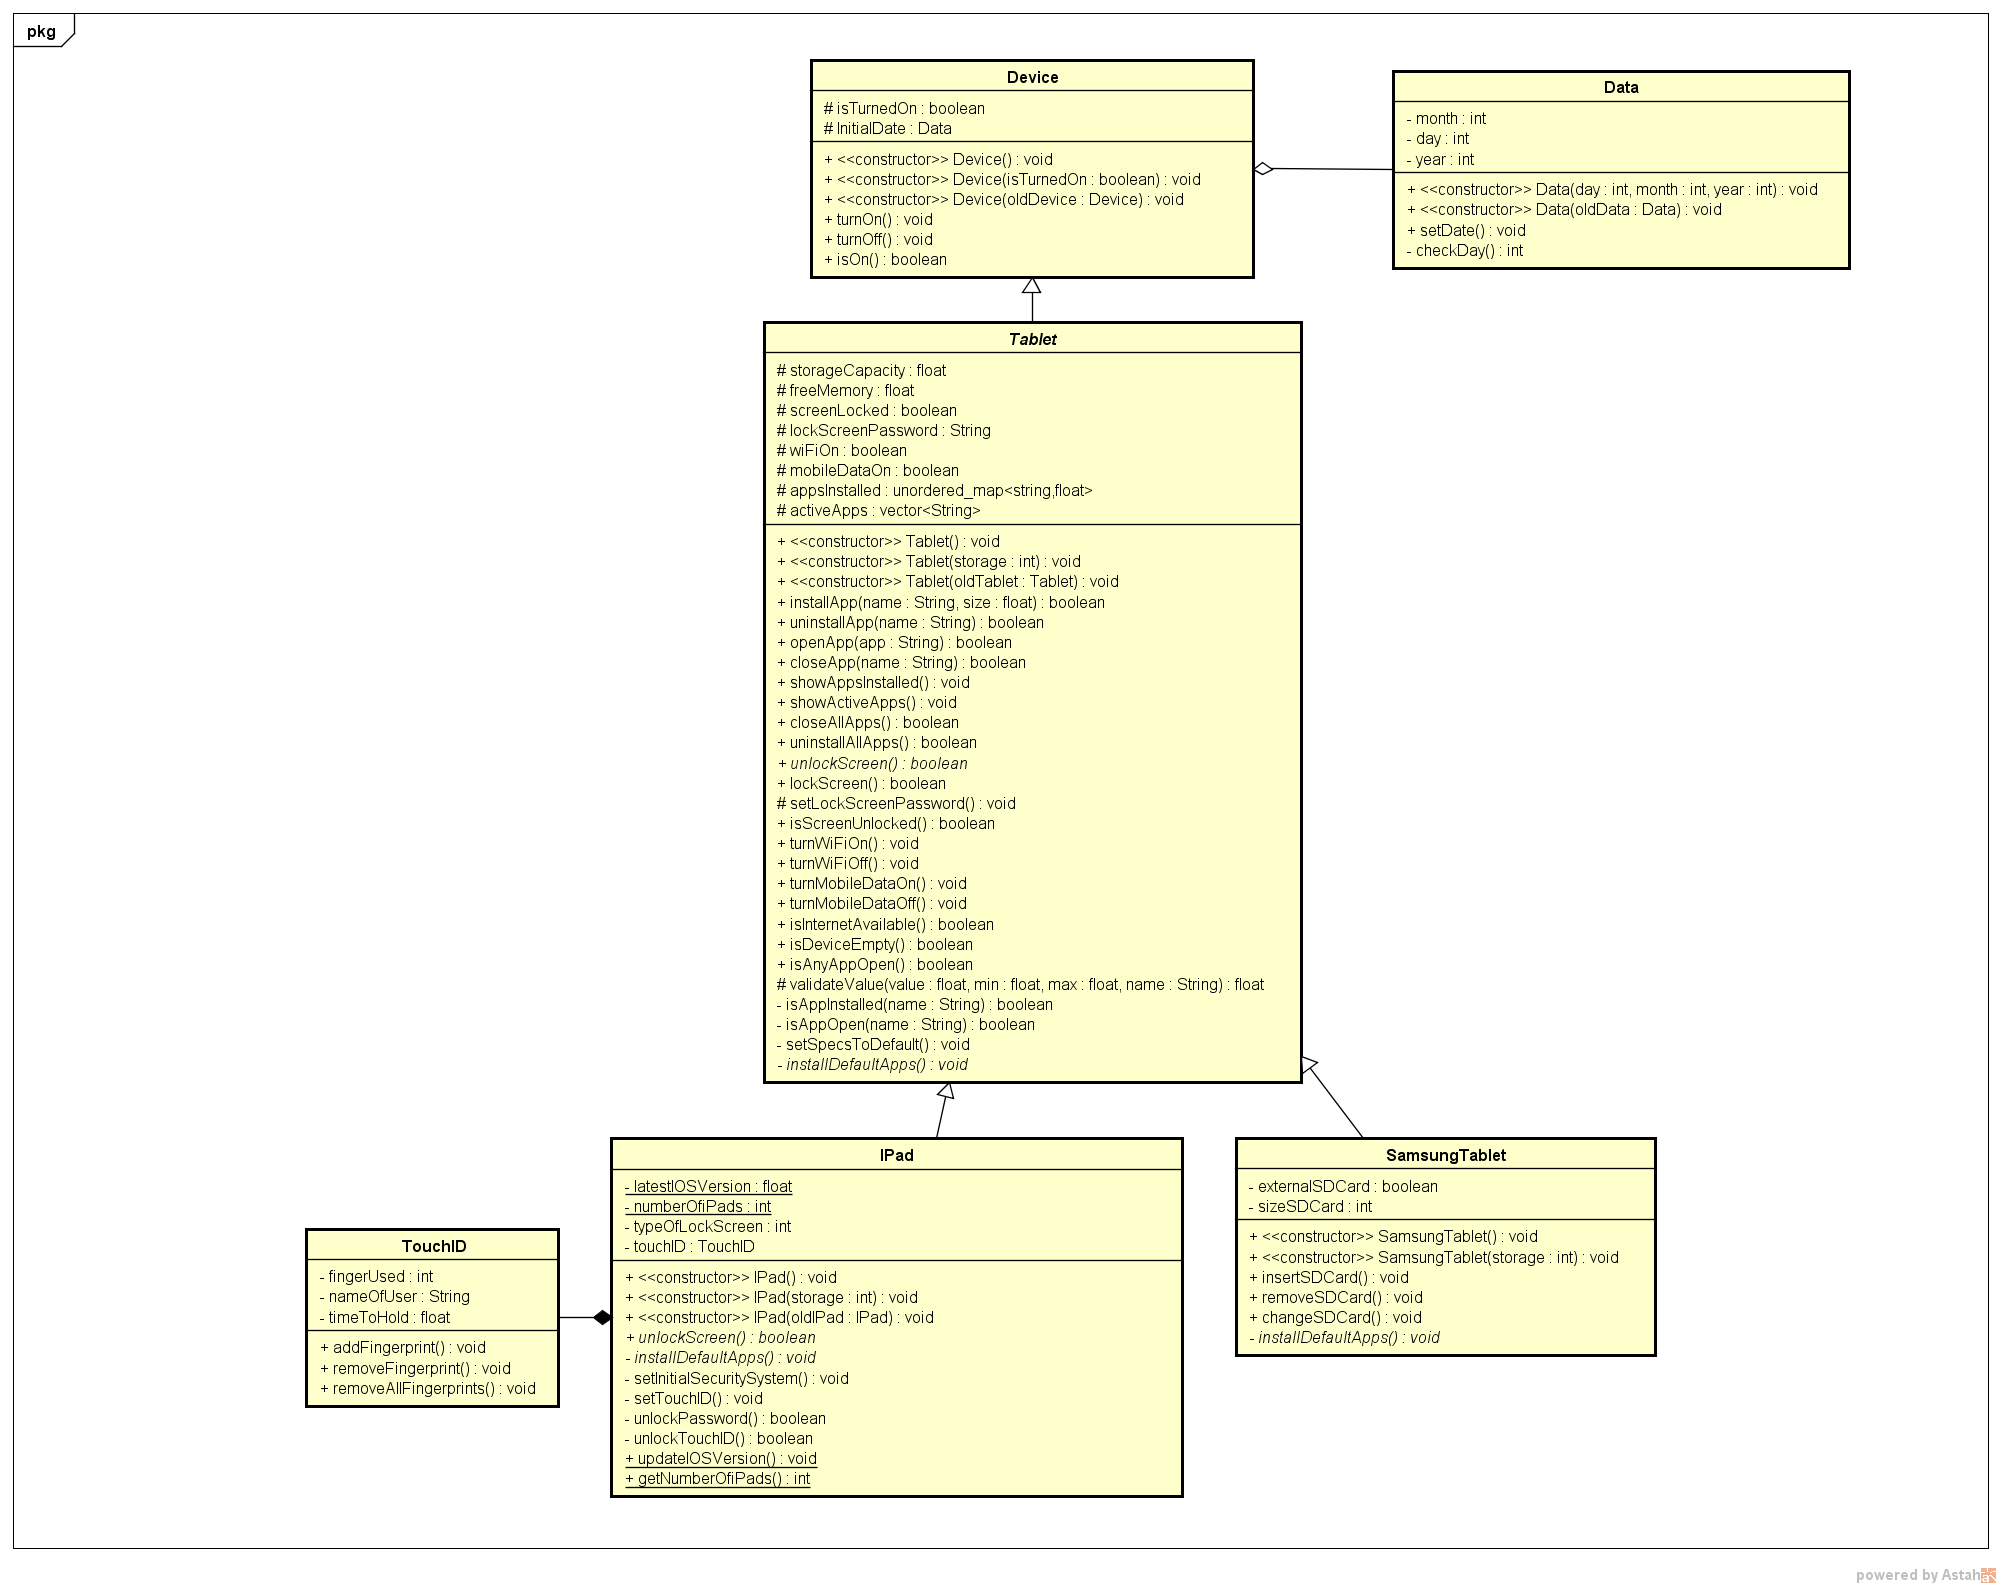
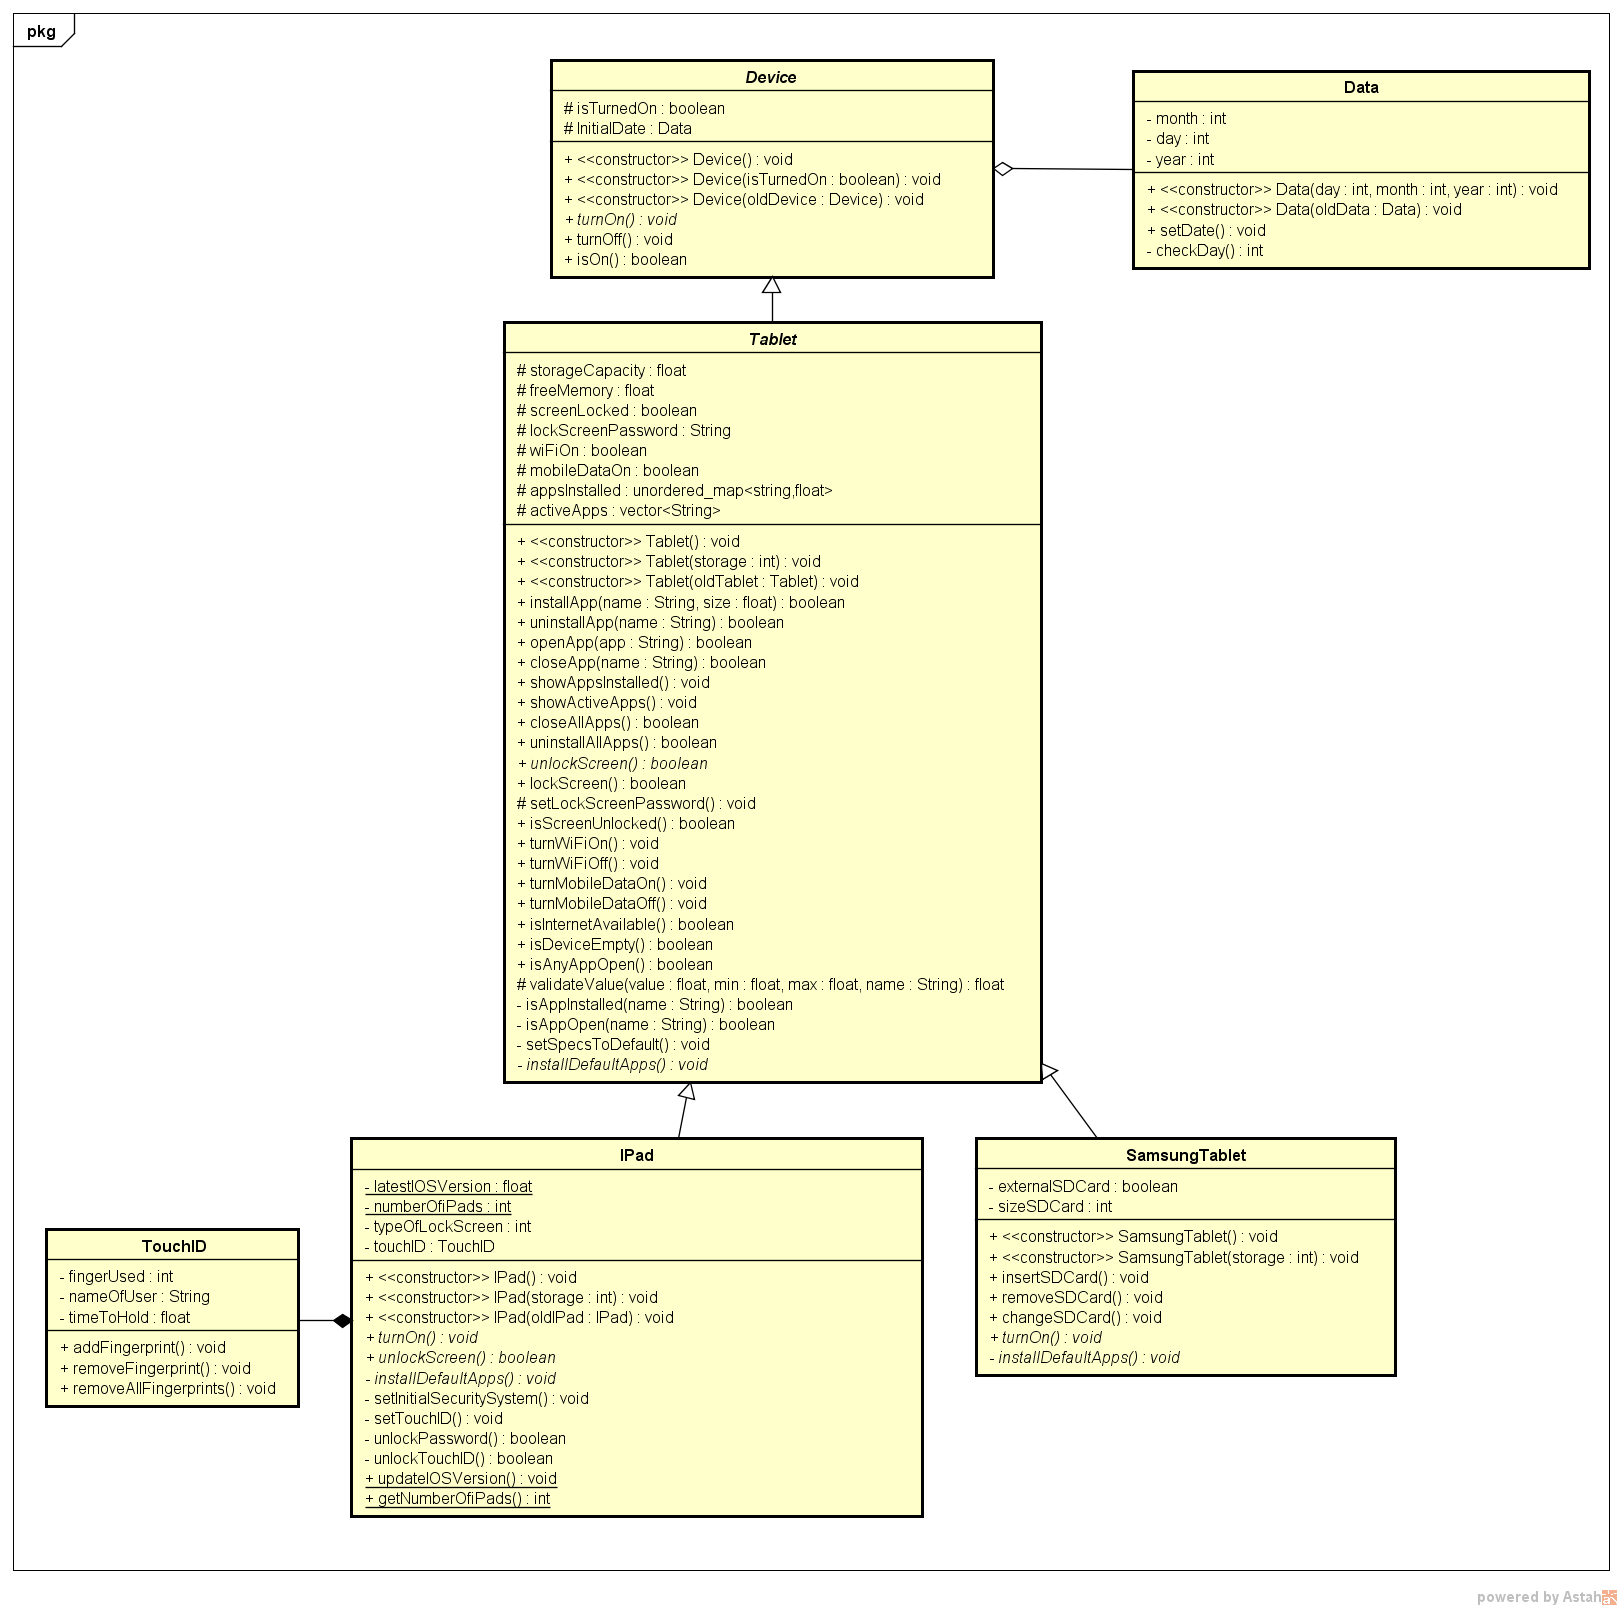
Método turnOn virtual
Classe Device agora é abstrata.

Changed region(s): [[0.0, 0.0, 1.0, 1.0], [0.8015, 0.0309, 0.8631, 0.0617], [0.0, 0.0, 0.0617, 0.0309]]

diff --git a/iPad/SamsungTablet.cpp b/iPad/SamsungTablet.cpp
@@ -9,6 +9,8 @@ SamsungTablet::SamsungTablet()
 
     installDefaultApps();
     
+    openDefaultApps();
+    
     setLockScreenPassword();
 }
 
@@ -21,6 +23,8 @@ SamsungTablet::SamsungTablet(int storage)
     sizeSDCard = 0;
 
     installDefaultApps();
+    
+    openDefaultApps();
     
     setLockScreenPassword();
 }
@@ -162,6 +166,28 @@ void SamsungTablet::installDefaultApps()
     // Installing iTunes
     appsInstalled["Google Play Store"] = 98;
     freeMemory -= 98/1000.0;
+}
+
+void SamsungTablet::turnOn()
+{
+    if (isOn())
+    {
+        cout << "\n# SamsungTablet is already turned on.\n";
+    } else
+    {
+        isTurnedOn = true;
+        openDefaultApps();
+        cout << "\n# Samsung is now turned on.\n";
+    }
+}
+
+void SamsungTablet::openDefaultApps()
+{
+    if (isAppInstalled("Google"))
+        openApp("Google");
+        
+    if (isAppInstalled("Google Play Store"))
+        openApp("Google Play Store");
 }
 
 // OVERLOAD OF OPERATORS

diff --git a/iPad/IPad.cpp b/iPad/IPad.cpp
@@ -10,6 +10,8 @@ IPad::IPad()
 
     installDefaultApps();
     
+    openDefaultApps();
+    
     setInitialSecuritySystem();
     
     numberOfiPads++;
@@ -21,6 +23,8 @@ IPad::IPad(int storage)
     cout << ".:. iPad Creation .:.\n";
     
     installDefaultApps();
+    
+    openDefaultApps();
     
     setInitialSecuritySystem();
     
@@ -146,6 +150,28 @@ bool IPad::unlockTouchID()
     }
     
     return false;
+}
+
+void IPad::turnOn()
+{
+    if (isOn())
+    {
+        cout << "\n# iPad is already turned on.\n";
+    } else
+    {
+        isTurnedOn = true;
+        openDefaultApps();
+        cout << "\n# iPad is now turned on.\n";
+    }
+}
+
+void IPad::openDefaultApps()
+{
+    if (isAppInstalled("Google"))
+        openApp("Google");
+        
+    if (isAppInstalled("iTunes"))
+        openApp("iTunes");
 }
 
 // OVERLOAD OF OPERATORS

diff --git a/iPad/SamsungTablet.h b/iPad/SamsungTablet.h
@@ -12,11 +12,10 @@ public:
     SamsungTablet(const SamsungTablet &);
     ~SamsungTablet();
     
+    virtual void turnOn();
     bool insertSDCard();
     bool removeSDCard();
     bool changeSDCard();
-    
-    virtual void installDefaultApps();
     
     const SamsungTablet &operator=(const SamsungTablet &);
     bool operator==(const SamsungTablet &) const;
@@ -25,7 +24,8 @@ private:
     int sizeSDCard;
     
     // HELPER FUNCTION
-    
+    virtual void installDefaultApps();
+    void openDefaultApps();
 };
 
 #endif // SAMSUNGTABLET_H

diff --git a/iPad/IPad.h b/iPad/IPad.h
@@ -16,6 +16,7 @@ public:
     IPad(const IPad &);
     ~IPad();
     
+    virtual void turnOn();
     virtual bool unlockScreen();
     static void updateIOSVersion();
     static int getNumberOfiPads();
@@ -41,6 +42,7 @@ private:
     bool unlockPassword();
     bool unlockTouchID();
     virtual void installDefaultApps();
+    void openDefaultApps();
     
      /* STATIC VARIABLES */
     static float latestIOSVersion;

diff --git a/iPad/Device.cpp b/iPad/Device.cpp
@@ -24,18 +24,6 @@ Device::~Device()
 {
 }
 
-void Device::turnOn()
-{
-    if (isTurnedOn)
-    {
-        cout << "\n# Device is already turned on.\n";
-    } else
-    {
-        isTurnedOn = true;
-        cout << "\n# Device is now turned on.\n";
-    }
-}
-
 void Device::turnOff()
 {
     // Check to see if the iPad isn't already turned off.

diff --git a/iPad/Device.h b/iPad/Device.h
@@ -17,9 +17,9 @@ public:
     Device();
     Device(bool);
     Device(const Device &);
-    ~Device();
+    virtual ~Device();
 
-    void turnOn();
+    virtual void turnOn() = 0;
     void turnOff();
     bool isOn() const;
 protected:
